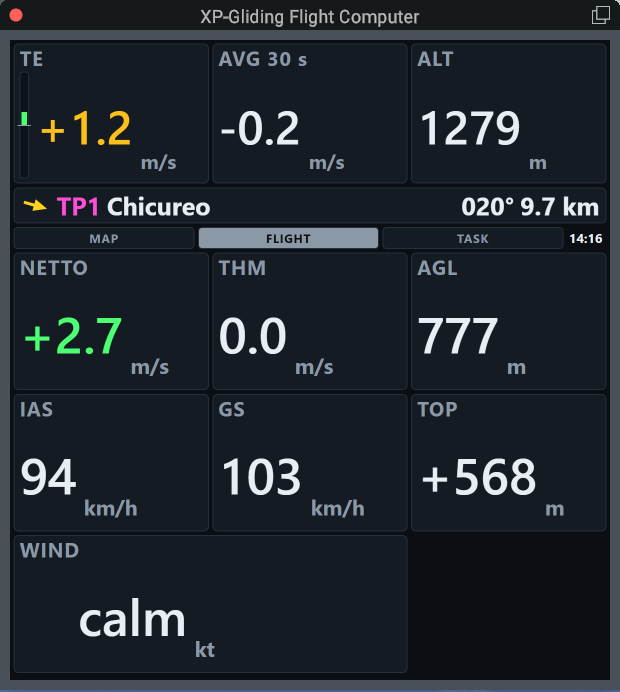
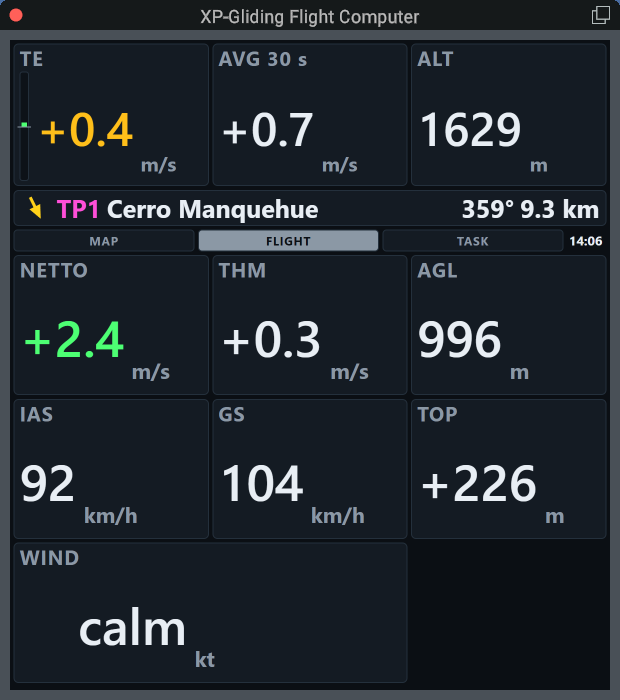
Documentation pictures of 2.2: the Glide Computer's screens, the Flight Computer retaken
The pilot guide shows GLIDE and INFO side by side and THERMAL with its
track coloured by climb; the Flight Computer's pictures are retaken with
2.2's bigger glider and map symbols, over Tobalaba with the example task.
How it works names the Glide Computer and says how THERMAL picks its
zoom; the zip's README.txt says both computers need X-Plane 12.4.4 and
XPPython3 4.8.0.

diff --git a/docs/pilot-guide.md b/docs/pilot-guide.md
@@ -73,7 +73,7 @@ A small panel on the left of the screen. The vario readings and the centring arr
 
 The other instrument, in place of the HUD: a window of its own that you can move and resize, with the same readings as the HUD, larger, and room for more to come. Choose it in *Plugins → XP-Gliding → Instrument*. It needs X-Plane 12.4.4 and XPPython3 4.8.0 or later, since its window is X-Plane's built-in browser; with anything earlier the menu greys it out and the HUD stays.
 
-![The Flight Computer in X-Plane: its window in the top left corner, the map showing the circle just flown, while the ASK 21 climbs at +1.4 m/s under a cumulus on the first leg of a task](images/flight-computer.jpg)
+![The Flight Computer in X-Plane: its window in the top left corner, the map showing the circles just flown, while the ASK 21 climbs at +1.5 m/s in a banked turn over Santiago, with cumulus over the foothills beyond, on the first leg of a task](images/flight-computer.jpg)
 
 A strip across the top always shows the total energy rate, with a bar whose half height is 5 m/s or 10 kt, the 30 s average and the altitude above sea level. With a task loaded, a row under it names the point you are flying to, with an arrow showing which way to turn to it, its bearing and its distance (see [TASK](#task)). Below, three tabs choose the view, MAP, FLIGHT or TASK; the one you leave it on is the one it opens with. Beside the tabs is the simulator's local time, which stands still while X-Plane is paused.
 
@@ -81,7 +81,7 @@ A strip across the top always shows the total energy rate, with a bar whose half
 
 A topographic map, north up, with the glider on it, turned to its heading, and the track you have flown, coloured by height: blue at the lowest of the flight, red at the highest. The legend under the zoom buttons gives the two heights; it widens by itself in steps of 100 m (300 m at least) as the flight goes higher or lower, and then the whole line takes its new colours. The map follows the glider: it moves at most once a second, in a small step, rather than gliding along all the time, which would cost X-Plane frames. Drag the map and it stops following; the round button at the top right brings it back. Under it, an arrow shows where the wind at the glider is blowing to, with its speed in knots. The + and − buttons, or the mouse wheel, zoom; the zoom you leave is kept. The scale at the bottom left is in km, or in nautical miles with *Units* set to aviation (feet below one mile).
 
-![The MAP view after a climb: the track spirals up over a racecourse in Santiago, blue at 1200 m through green and yellow to red at 1600 m, the glider leaves the circle on a dashed yellow line towards the first turn point, Chicureo, 15.2 km away, and the wind button reads calm](images/flight-computer-map.png)
+![The MAP view in a climb, 100 m on the scale: the track spirals up in tight circles over a neighbourhood of Santiago, blue near 1500 m turning green higher up on a legend from 1500 to 1800 m, the glider at the top of the spiral, the way in from the right in light blue, the first turn point, Cerro Manquehue, 9.3 km away at 358°, and the wind button reads calm](images/flight-computer-map.png)
 
 The track keeps one point a second for the last six hours. It is recorded while the Flight Computer is the chosen instrument, whether its window is open or not, and starts again when the glider jumps: a new flight, a move on X-Plane's map, *Put me near a cloud*, a change of time.
 
@@ -104,7 +104,7 @@ The readings the strip does not show:
 | `TOP` | Height up to the nearest thermal's cloud, as on the HUD; `--` with *Thermals* off |
 | `WIND` | Where the wind comes from and its speed in knots, with an arrow pointing where it goes, relative to the nose |
 
-![The FLIGHT view in a climb: total energy +1.2 m/s, NETTO +2.7 in green, THM 0.0, AGL 777 m, IAS 94 km/h, GS 103 km/h, TOP +568 m and WIND calm](images/flight-computer-flight.png)
+![The FLIGHT view in a climb: total energy +0.4 m/s, NETTO +2.4 in green, THM +0.3, AGL 996 m, IAS 92 km/h, GS 104 km/h, TOP +226 m and WIND calm](images/flight-computer-flight.png)
 
 The numbers grow and shrink with the window, so a small window in a corner still reads well.
 
@@ -116,7 +116,7 @@ A task from a SeeYou CUP file, to fly without leaving X-Plane. Put CUP files in 
 
 A CUP file can hold waypoints only, with no task: turn point files for a site or a competition are often like that. Such a file is listed with "no tasks in this file". Make the task in SeeYou (or another program that writes CUP files with tasks) from those waypoints and save it, then put that file in the folder.
 
-![Left, the TASK tab with a task of 89.3 km around Santiago: the start at Tobalaba taken and dimmed, the first turn point, Chicureo, in yellow, 12 % done and 78.9 km left, the Prev, Next and Clear buttons, and the tasks folder with its one file. Right, the same task on the map: magenta legs, the start cylinder at Tobalaba, the zone of Chicureo drawn stronger, and a dashed yellow line from the glider to it](images/flight-computer-task.png)
+![Left, the TASK tab with the example task, Santiago short triangle, 29.5 km: the start at Tobalaba taken and dimmed, the first turn point, Cerro Manquehue, in yellow, 7 % done and 27.4 km left, the Prev, Next and Clear buttons, and the tasks folder with its one file, santiago-short-triangle.cup. Right, the same task on the map, 5 km on the scale: magenta legs from Tobalaba to Cerro Manquehue, Cerro San Cristóbal and back, the zone of Cerro Manquehue drawn stronger, and the glider on the first leg](images/flight-computer-task.png)
 
 The TASK tab shows the task's points, each with the length of the leg to it; the point you are flying to is in yellow and those behind you are dimmed, and once started, the distance left and the share done. Each point is taken by itself as you fly:
 
@@ -143,6 +143,8 @@ The header shows the screen, `TO:` and the target, and the simulator's local tim
 | INFO | `tTime`, `tSpd`, `hAGL` / `TTG`, `GS`, `tDelta` |
 | THERMAL | `Dis`, `DH`, `TAve` / `T4Ave`, `DDH`, `TGain` |
 
+![Left, GLIDE with the target moved ahead to the second turn point: TO: 2 Cerro San Cristobal, Dis 16.3 km through the first turn point, DH 479 m, E 28, VMG 107 km/h, ReqE 34 and DDH --; the thin black line runs from the glider north towards Cerro Manquehue, the way to fly, the heading tape's red mark sits in the middle at the top, and the map is 9.4 km wide. Right, INFO on the same glide, the target back at 1 Cerro Manquehue: tTime 14:57, tSpd 15 km/h, hAGL 723 m, GS 108 km/h, TTG and tDelta --](images/glide-computer-glide-info.png)
+
 | Reading | What it shows |
 | --- | --- |
 | `Dis` | Distance to the target, through the points on the way when the target is further along the task |
@@ -160,6 +162,8 @@ The header shows the screen, `TO:` and the target, and the simulator's local tim
 On the map, the zone you fly to is red, those still to come green and those you have taken a fainter green. The start is red, turns yellow while you are in its zone ready to start, and green once you have started. Yellow tags name the points: `T` the takeoff, `S` the start, `1`, `2`… the turn points, `F` the finish; a yellow cross marks each point. A thin black line runs from the glider to the way to fly. Along the top, a tape of blue ticks shows where the target lies against your track: its red mark is in the middle when you fly straight at it, and hollow at an end when the target lies further round. Down the right edge is the glide-slope bar, which will show `DDH` once that reading comes. Bottom left is the wind, where it comes from and its speed in knots; bottom right, the map's width.
 
 The target is the point you fly to, unless you choose another: ◀ and ▶ in the header move it along the rest of the task, and back to the takeoff. `Dis`, `DH`, `ReqE` and the tape then speak of that point, through the points between; the task itself does not change. When you reach a point, the target moves on with it. Once you have finished, the header says FINISHED in green in place of TO:, and `tTime` and `tSpd` keep your task's time and speed. TASK in the header opens the Flight Computer's task list over the map, to choose a task or step a point by hand; it closes when you choose a task or press TASK again. The name of the screen in the header changes the screen. GLIDE and INFO keep their own zoom. THERMAL always opens close in, about 1 km across, whatever the window's size; zoom there as you like, and it opens close in again next time. On THERMAL the track is coloured by climb instead of height, on a scale that never moves, so a circle shows where you climbed and where you sank: red for 3 m/s or more, orange 2 to 3, yellow 1 to 2, green 0 to 1, light blue sinking up to 1 m/s, dark blue sinking more (with aviation units the steps are 2 kt: red from 6 kt, dark blue below −2 kt). Each stretch of track is coloured by the total-energy climb flown along it, second by second, with no vario's lag, and the legend shows the scale.
+
+![THERMAL in a climb, the map 1.2 km wide: the circles coloured by climb, red and orange on the side towards the core, through yellow and green to blue on the far side, the way in from the north-east in blue, and the legend from +3 to −1 m/s; TAve +1.1 in red, TGain 193 m, T4Ave −1.2 in blue, Dis 9.2 km and DH −240 m to Cerro Manquehue](images/glide-computer-thermal.png)
 
 When you circle, the computer goes to THERMAL by itself, once you have turned the same way for 15 s, so a turn onto a new course does not. After 20 s of straight flight it goes back to the screen you were on; a few straight seconds to move the circle keep THERMAL. A screen you choose while circling is kept. To turn this off, set `computer_auto_thermal` to `false` in `Output/xp-gliding/config.json` with X-Plane closed.
 

diff --git a/docs/how-it-works.md b/docs/how-it-works.md
@@ -7,7 +7,7 @@ How XP-Gliding builds its sky and puts its lift on a glider, for pilots who want
 The plugin is split in two, and the split is the main design decision.
 
 - **The atmospheric engine** (`xp_gliding/engine/`) decides where the thermals are, how strong, what clouds they carry and how they move. It is pure Python, never talks to X-Plane, and is deterministic: given a seed, a date, a place, a time and how far the wind has carried the air, it gives the same sky on every machine. It is tested and plotted outside the simulator.
-- **The X-Plane adapter** (`xp_gliding/adapter/`) is the only code that talks to X-Plane, through [XPPython3](https://xppython3.readthedocs.io/). Each frame it reads the glider's state and the wind, asks the engine for the lift, and applies it as a force. It also draws the clouds, the training markers and the HUD, shows the Flight Computer, and runs the menu.
+- **The X-Plane adapter** (`xp_gliding/adapter/`) is the only code that talks to X-Plane, through [XPPython3](https://xppython3.readthedocs.io/). Each frame it reads the glider's state and the wind, asks the engine for the lift, and applies it as a force. It also draws the clouds, the training markers and the HUD, shows the Flight Computer and the Glide Computer, and runs the menu.
 
 Positions in the engine are in metres, east, north and up from a local origin, converted from latitude and longitude with the ellipsoid's radii at the origin (the cos(latitude) factor on longitude). The adapter moves the origin when the glider gets 20 km from it, and nothing in the sky moves when it does.
 
@@ -98,7 +98,7 @@ Tasks are read from SeeYou CUP files (`nav/cup.py`) in `Output/xp-gliding/tasks/
 
 The map is drawn by [Leaflet](https://leafletjs.com/), which comes with the plugin, so the page works without a network. The plugin keeps the track (`xp_gliding/nav/track.py`): one point a second of simulator time, with its height, none while paused or in replay, the last six hours. The page holds what it was sent, the last six hours too, and asks only for the points it does not have, so a long track crosses once. Each point also has the climb along the second before it, from the total energy (the HUD's vario's) at the two points, so the stretch between them is coloured by exactly the climb flown along it, with no filter's lag; the Glide Computer's THERMAL screen colours the track by it. The track starts again when the glider jumps, which the plugin knows as the HUD's instruments do, and which the track also sees by itself when the simulator's clock goes back or the glider moved faster than any glider flies. Positions on the track match X-Plane's to a few centimetres. Distances and bearings for navigation are worked out on a sphere (`xp_gliding/nav/geodesy.py`), since a task runs further than the flat local frame the engine uses. The page takes the tiles from the address in the settings; X-Plane's browser keeps them in its disk cache between sessions, as long as the server allows (OpenTopoMap's say a week). Nothing moves the map continuously: in the lab, a map panning all the time cost X-Plane's main thread about 116 ms a second, so follow mode steps the map at most once a second, and the glider is moved on the map only when it would move by a pixel.
 
-The Glide Computer is the same window and page in another layout, with the functions of Condor 3's flight computer. Its readings are worked out in `nav/` too. The target is kept beside the point flown to (`nav/task.py`): browsing it never changes the task's progress, and the distance to it runs through the points between. `E` is the ground covered in the last 30 s, from a place and height taken once a second, over the height lost (`nav/glide.py`), starting over when the glider jumps, as the track does; `ReqE` is the distance over the height above the target's elevation, with no polar, wind or terrain. `T4Ave` is the gain of the last four thermals left over their time, each counted from its first circle to its last as the thermal's own average is. The task's time runs from the moment the start is taken, by the simulator's clock. THERMAL comes by itself once the HUD's centring aid has seen the glider turn one way for 15 s of simulator time, and the screen before it comes back after 20 s straight, the time after which the thermal's average ends too. The zoom and the map's display are the page's own, so the X-Plane commands that change them reach the page in the readings it asks for, numbered, and each is done once; the screen and the target are the plugin's.
+The Glide Computer is the same window and page in another layout, with the functions of Condor 3's flight computer. Its readings are worked out in `nav/` too. The target is kept beside the point flown to (`nav/task.py`): browsing it never changes the task's progress, and the distance to it runs through the points between. `E` is the ground covered in the last 30 s, from a place and height taken once a second, over the height lost (`nav/glide.py`), starting over when the glider jumps, as the track does; `ReqE` is the distance over the height above the target's elevation, with no polar, wind or terrain. `T4Ave` is the gain of the last four thermals left over their time, each counted from its first circle to its last as the thermal's own average is. The task's time runs from the moment the start is taken, by the simulator's clock. THERMAL comes by itself once the HUD's centring aid has seen the glider turn one way for 15 s of simulator time, and the screen before it comes back after 20 s straight, the time after which the thermal's average ends too. THERMAL opens at the map's zoom whose width, measured on the map, is nearest 1 km, so it is as close in whatever the window's size; GLIDE and INFO keep the zoom left on them. The zoom and the map's display are the page's own, so the X-Plane commands that change them reach the page in the readings it asks for, numbered, and each is done once; the screen and the target are the plugin's.
 
 The training markers show up to 20 thermals within 3 km with at least 1.5 m/s at their core at the glider's height: the core's own lift, without the neighbours'.
 

diff --git a/README.md b/README.md
@@ -25,7 +25,7 @@ It is an independent take on thermals, offered as another option for soaring in 
 - **Put me near a cloud:** from the menu, the glider starts flying towards a cloud, with no tow.
 - **Optional training markers** showing where the thermals are.
 
-![The Flight Computer's window in the top left corner of X-Plane, its map showing the circle just flown, while the ASK 21 climbs at +1.4 m/s under a cumulus over Santiago, Chile, on the first leg of a task](docs/images/flight-computer.jpg)
+![The Flight Computer's window in the top left corner of X-Plane, its map showing the circles just flown, while the ASK 21 climbs at +1.5 m/s in a banked turn over Santiago, Chile, with cumulus over the foothills beyond, on the first leg of a task](docs/images/flight-computer.jpg)
 
 ## Where it is going
 
